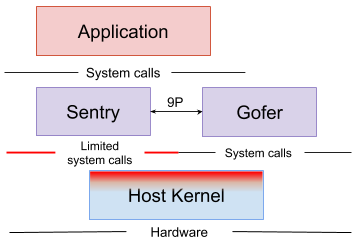
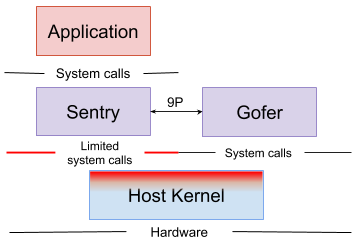
Add common docker error when version is wrong
Also updated gofer image with more accurate boundaries.

PiperOrigin-RevId: 195373809
Upstream-commit: 3ea6805e5443bb748797ba272d5d288df8c9a7e1

Changed region(s): [[0.1232, 0.0, 0.6162, 0.2249], [0.0308, 0.253, 0.6779, 0.3373]]

diff --git a/README.md b/README.md
@@ -188,8 +188,8 @@ cd gvisor
 
 Build and install the `runsc` binary.
 
-It is important to copy this binary to some place that is accessible to all
-users, since `runsc` executes itself as user `nobody` to avoid unnecessary
+**It is important to copy this binary to some place that is accessible to all
+users**, since `runsc` executes itself as user `nobody` to avoid unnecessary
 privileges. The `/usr/local/bin` directory is a good choice.
 
 ```
@@ -376,6 +376,11 @@ features and bugs. The only real way to know if it will work is to try. If you
 find a container that doesn’t work and there is no known issue, please [file a
 bug][bug] indicating the full command you used to run the image. Providing the
 debug logs is also helpful.
+
+### When I run my container, docker fails with `flag provided but not defined: -console`
+
+You're using an old version of Docker. Refer to the
+[Requirements](#requirements) section for the minimum version supported.
 
 ### My container runs fine with *runc* but fails with *runsc*.
 
